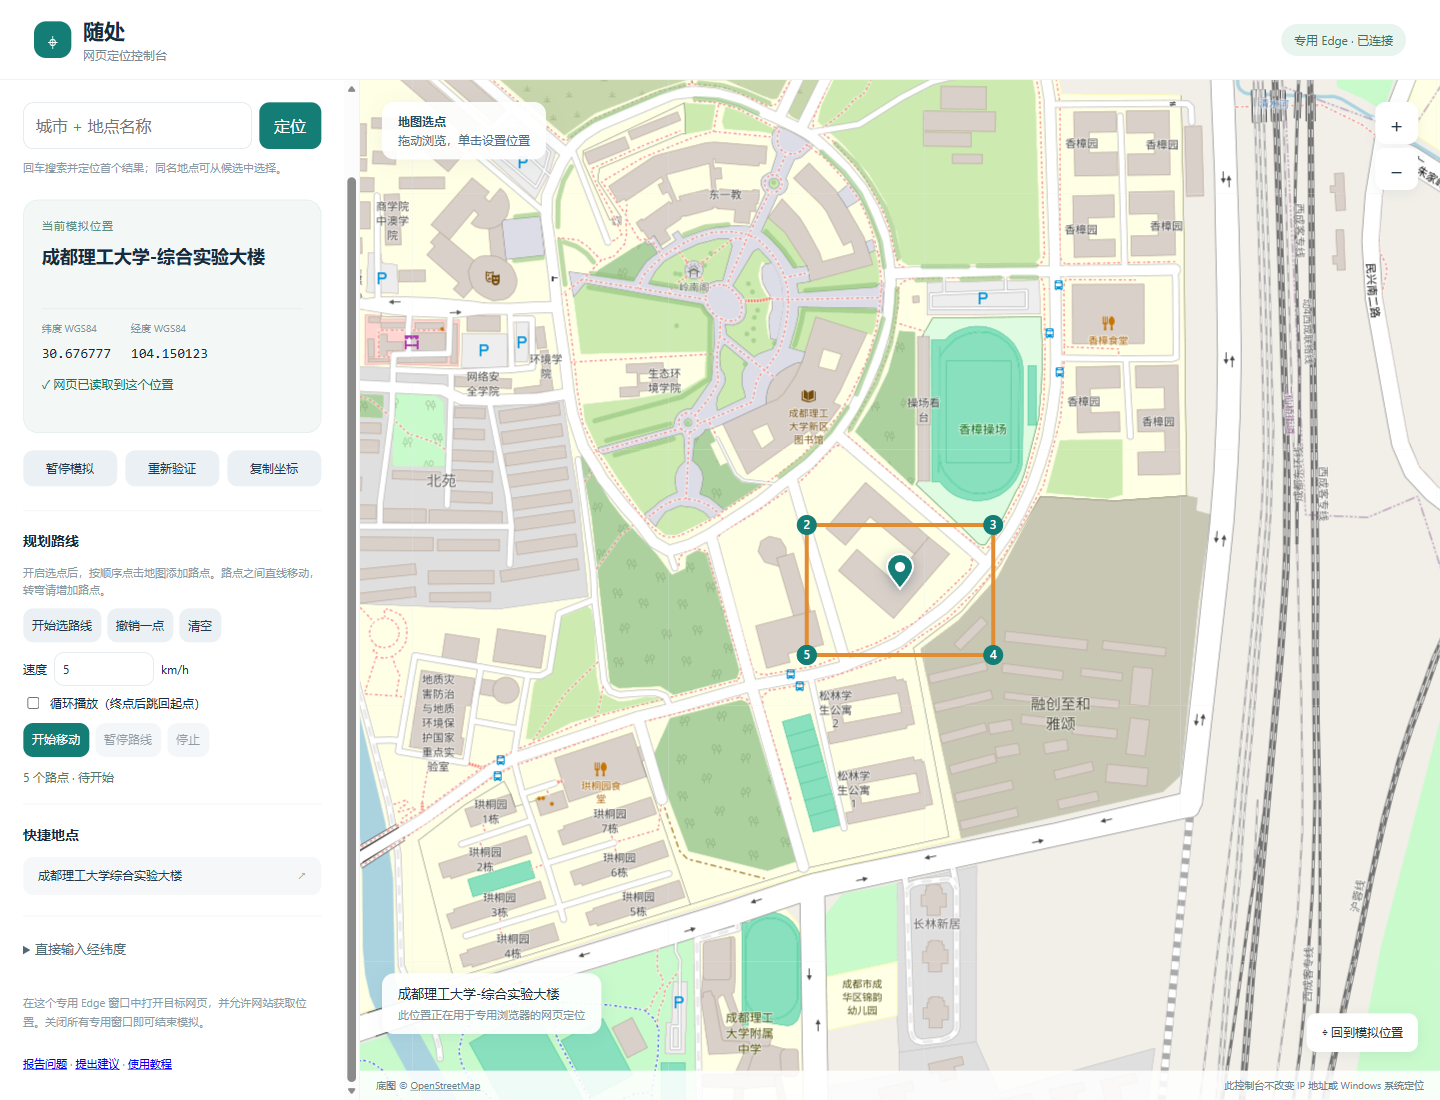
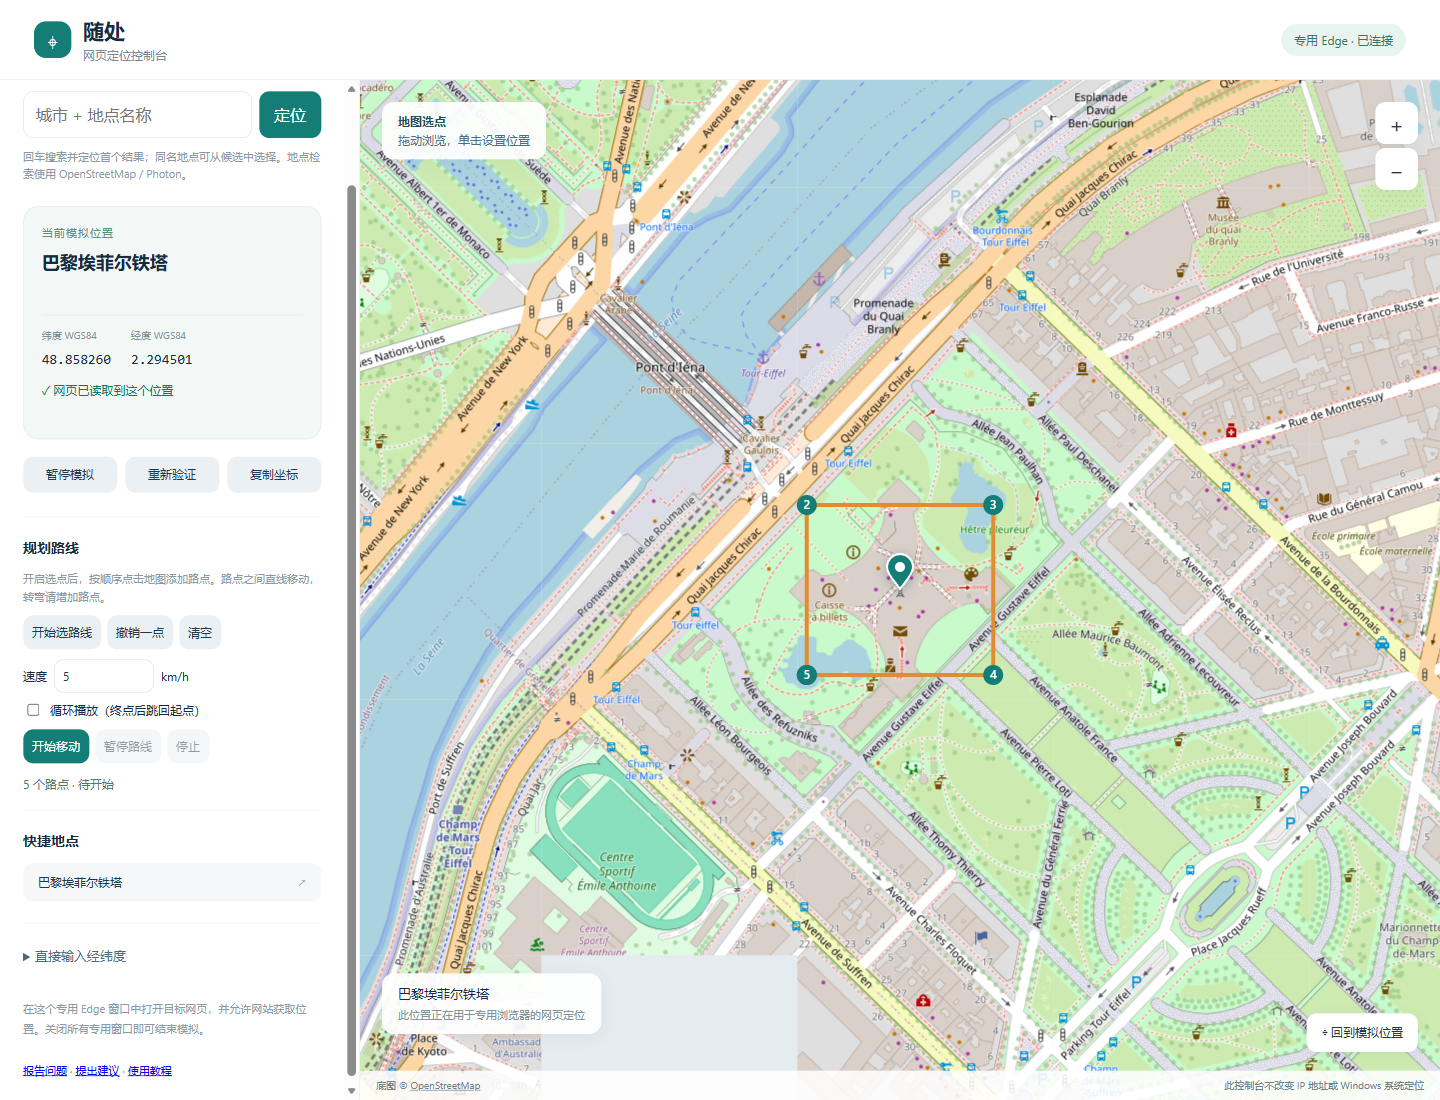
fix: use public landmark examples throughout the current release
Replace the default place, preview image and test fixtures with public demo data. Preserve earlier releases and repository history. Return exact route endpoints to avoid floating-point drift.

diff --git a/console.html b/console.html
@@ -10,7 +10,7 @@
 <div class="current"><div class="eyebrow">当前模拟位置</div><div class="place" id="place">正在读取…</div><div class="address" id="address"></div><div class="coords"><div><small>纬度 WGS84</small><b id="lat">—</b></div><div><small>经度 WGS84</small><b id="lon">—</b></div></div><div id="feedback" class="feedback" role="status" aria-live="polite">正在验证网页定位…</div></div>
 <div class="actions"><button id="pause">暂停模拟</button><button id="verify">重新验证</button><button id="copy">复制坐标</button></div>
 <div class="section"><h2>规划路线</h2><div class="hint" style="margin:0">开启选点后，按顺序点击地图添加路点。路点之间直线移动，转弯请增加路点。</div><div class="route-buttons"><button id="route-mode" aria-pressed="false">开始选路线</button><button id="route-undo">撤销一点</button><button id="route-clear">清空</button></div><label class="route-control">速度 <input id="route-speed" type="number" min="0.1" max="300" step="0.1" value="5"> km/h</label><label class="route-control"><input id="route-loop" type="checkbox">循环播放（终点后跳回起点）</label><div class="route-buttons"><button class="primary" id="route-start">开始移动</button><button id="route-pause">暂停路线</button><button id="route-stop">停止</button></div><div class="route-status" id="route-status" role="status">尚未选择路线</div></div>
-<div class="section"><h2>快捷地点</h2><button class="favorite" id="default-place">成都理工大学综合实验大楼 <span>↗</span></button></div>
+<div class="section"><h2>快捷地点</h2><button class="favorite" id="default-place">巴黎埃菲尔铁塔 <span>↗</span></button></div>
 <div class="section"><details><summary>直接输入经纬度</summary><form class="manual" id="manual-form"><div class="fields"><label>纬度（−90 ～ 90）<input id="manual-lat" type="number" step="any" min="-90" max="90" required></label><label>经度（−180 ～ 180）<input id="manual-lon" type="number" step="any" min="-180" max="180" required></label></div><button>定位到这个坐标</button></form></details></div>
 <div class="scope">在这个专用 Edge 窗口中打开目标网页，并允许网站获取位置。关闭所有专用窗口即可结束模拟。</div>
 <div class="scope"><a href="https://github.com/zoe2026test/suichu-browser-location/issues/new?template=bug_report.yml" target="_blank" rel="noopener noreferrer">报告问题</a> · <a href="https://github.com/zoe2026test/suichu-browser-location/issues/new?template=feature_request.yml" target="_blank" rel="noopener noreferrer">提出建议</a> · <a href="https://github.com/zoe2026test/suichu-browser-location/blob/main/docs/QUICKSTART.md" target="_blank" rel="noopener noreferrer">使用教程</a></div>
@@ -20,7 +20,7 @@ const TOKEN=__TOKEN__, $=id=>document.getElementById(id);
 let current=null, paused=false, busy=false, previousKey='', verified=false;
 let routePoints=[],routeMode=false,routeInfo={status:'idle'},routeKey='';
 try{routePoints=JSON.parse(localStorage.getItem('suichu-route')||'[]');if(!Array.isArray(routePoints)||routePoints.length>500||routePoints.some(p=>!Number.isFinite(p.latitude)||!Number.isFinite(p.longitude)||Math.abs(p.latitude)>85||Math.abs(p.longitude)>180))routePoints=[];}catch{}
-const map=$('map');let center=[104.15012287456355,30.676777252973892],zoom=15,pointer=null,tileLoaded=false;
+const map=$('map');let center=[2.2945006,48.8582599],zoom=15,pointer=null,tileLoaded=false;
 function msg(text,error=false){$('feedback').textContent=text;$('feedback').className='feedback'+(error?' error':'')}
 async function api(url,body){const r=await fetch(url,{method:body?'POST':'GET',headers:body?{'Content-Type':'application/json','X-Controller-Token':TOKEN}:{},body:body?JSON.stringify(body):undefined});const j=await r.json();if(!r.ok)throw Error(j.error||'请求失败');return j}
 function project(lon,lat,z=zoom){const size=256*2**z,phi=Math.max(-85.051,Math.min(85.051,lat))*Math.PI/180;return[(lon+180)/360*size,(1-Math.log(Math.tan(phi)+1/Math.cos(phi))/Math.PI)/2*size]}

diff --git a/windows/README.md b/windows/README.md
@@ -8,7 +8,7 @@
 
 脚本下载官方 Node.js 24.22.1 Windows x64 ZIP，并对照固定 SHA256 验证。EXE 内嵌运行时、Node 许可证和应用代码；不会在用户首次打开时再下载运行环境。
 
-启动器以普通用户权限运行，将文件准备到 `%LOCALAPPDATA%\Suichu\application\1.2.0`。每次启动核对文件清单与 SHA256，使用互斥量避免同时解压；启动隐藏的内置 Node 服务，再由服务打开系统 Edge。目标位置、浏览器资料和日志保存在版本目录之外，升级时可继续使用。
+启动器以普通用户权限运行，将文件准备到 `%LOCALAPPDATA%\Suichu\application\1.2.1`。每次启动核对文件清单与 SHA256，使用互斥量避免同时解压；启动隐藏的内置 Node 服务，再由服务打开系统 Edge。目标位置、浏览器资料和日志保存在版本目录之外，升级时可继续使用。
 
 搜索通过 EXE 的 `--search-http` 内部操作使用 Windows HTTPS，不依赖 Python、PowerShell 搜索脚本或用户安装的 Node。只接受 HTTPS 输入，响应大小和超时均有限制。
 

diff --git a/README.md b/README.md
@@ -41,7 +41,7 @@
 
 ## 第一次使用
 
-1. 打开 **[Releases 下载页](https://github.com/zoe2026test/suichu-browser-location/releases/latest)**，下载 **`Suichu-v1.2.0-win-x64.exe`**。
+1. 打开 **[Releases 下载页](https://github.com/zoe2026test/suichu-browser-location/releases/latest)**，下载 **`Suichu-v1.2.1-win-x64.exe`**。
 2. 把 EXE 保存到固定位置，双击打开。不需要安装 Node.js、Python，也不需要手动解压源码。
 3. 第一次运行会自动准备本机文件并打开专用 Edge。在控制台选位置或路线，再在同一浏览器另开标签访问待测试网页，并允许网站获取位置。
 

diff --git a/docs/QUICKSTART.md b/docs/QUICKSTART.md
@@ -3,7 +3,7 @@
 ## 普通用户：下载一个 EXE 即可
 
 1. 打开[下载页](https://github.com/zoe2026test/suichu-browser-location/releases/latest)。
-2. 在 Assets 中选择 **Suichu-v1.2.0-win-x64.exe**，保存到固定位置并双击。
+2. 在 Assets 中选择 **Suichu-v1.2.1-win-x64.exe**，保存到固定位置并双击。
 3. 等待第一次准备本机文件，程序会自动打开专用 Edge 和定位控制台。
 4. 选好位置或路线后，在同一专用 Edge 中另开标签，访问待测试网页并允许位置权限。
 

diff --git a/docs/releases/v1.2.1.md b/docs/releases/v1.2.1.md
@@ -1,0 +1,9 @@
+# 随处 v1.2.1 · 公共地标示例
+
+默认位置、内置快捷地点、测试数据和 README 截图统一更新为巴黎埃菲尔铁塔。
+
+普通用户请下载 **Suichu-v1.2.1-win-x64.exe**，保存后双击即可，无需安装 Node.js 或 Python；支持 Windows 10 / 11 x64，仍使用系统 Edge。
+
+保留搜索、地图选点、坐标输入和路线调速功能。EXE 未做代码签名，SHA256SUMS.txt 可用于核对下载文件。
+
+本次仅更新当前版本，早期版本和 Git 历史保持不变。

diff --git a/CHANGELOG.md b/CHANGELOG.md
@@ -1,5 +1,10 @@
 # 版本记录
 
+## 1.2.1 — 2026-11-09
+
+- 默认示例、内置快捷地点和首页截图统一使用公开地标：巴黎埃菲尔铁塔。
+- 更新测试坐标与演示数据，移除当前版本中的私人地点示例。
+
 ## 1.2.0 — 2026-11-09
 
 - 新增 Windows x64 单文件 EXE，内置官方 Node.js 运行时。
